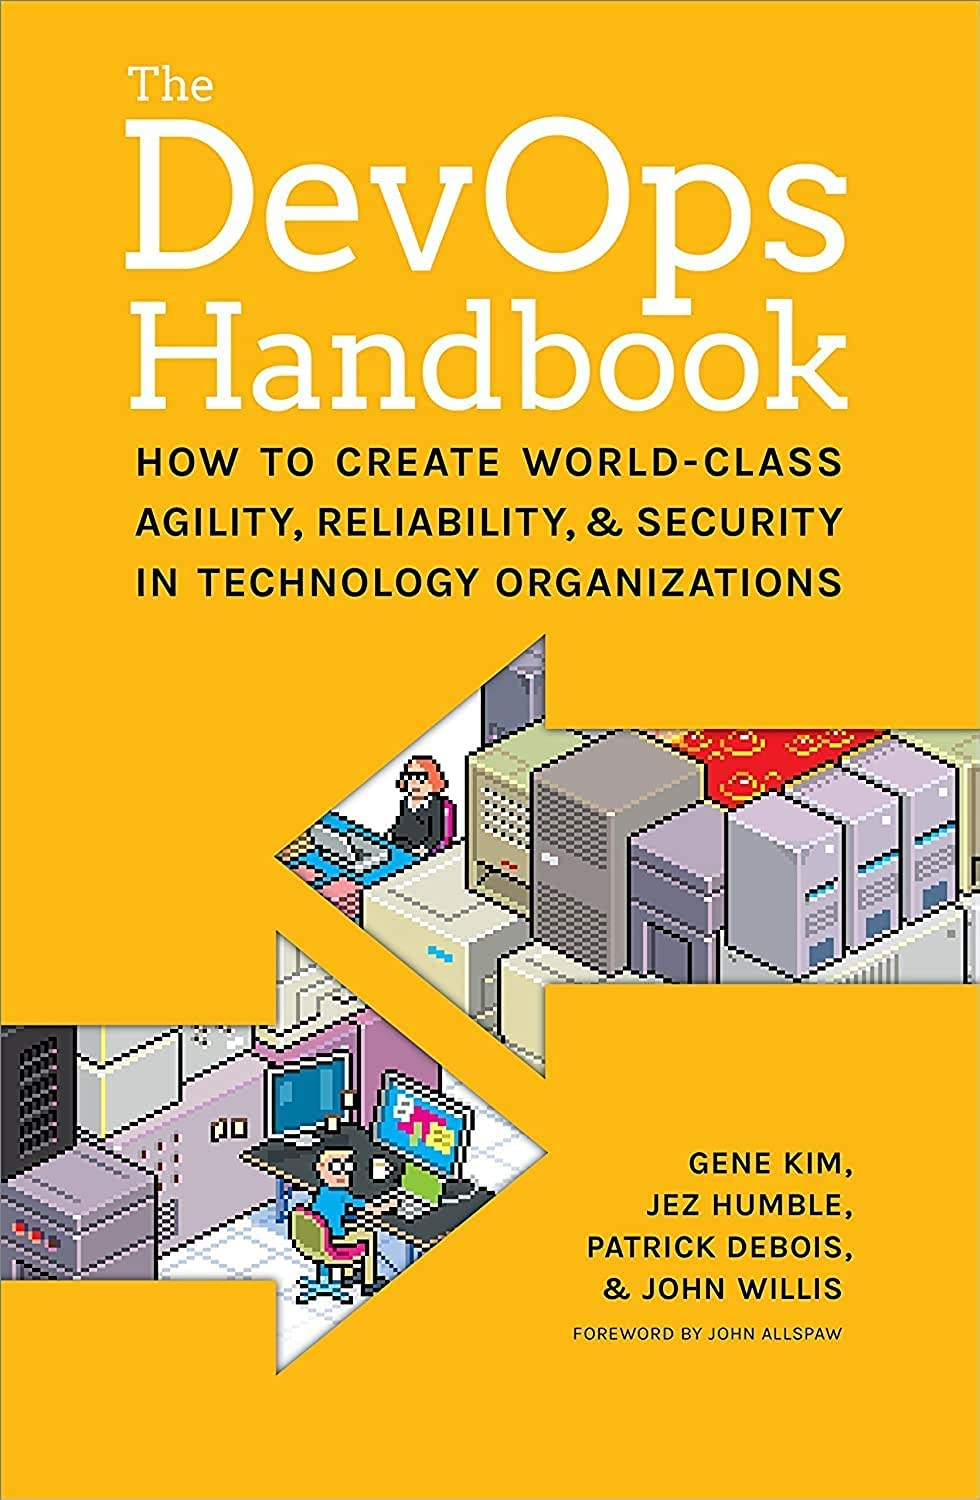
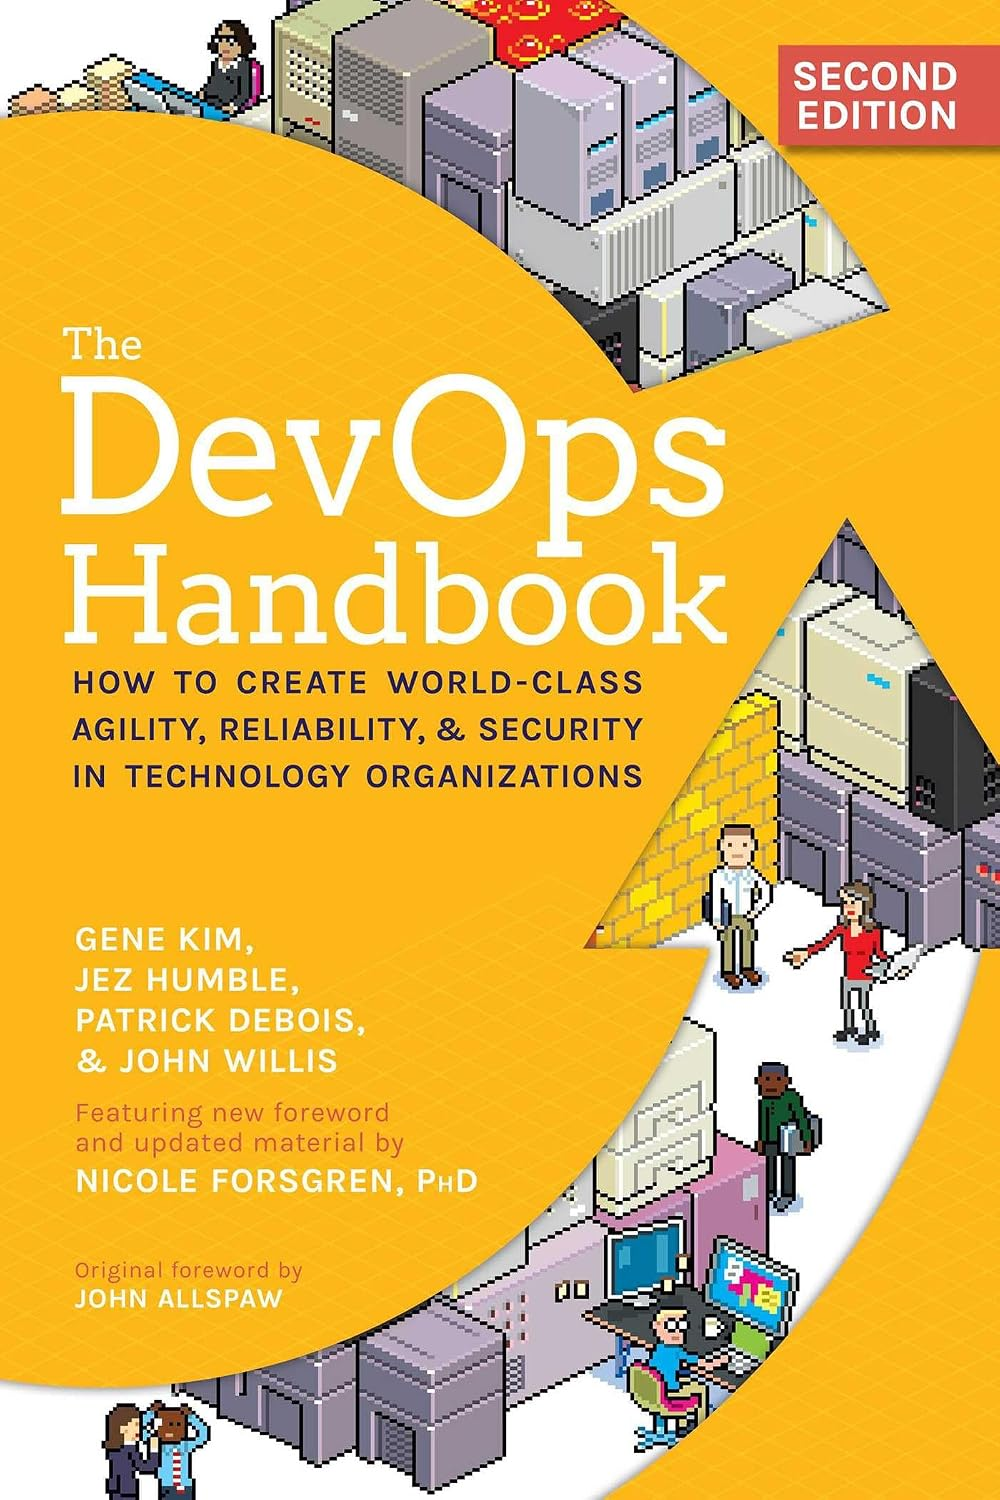
docs: aula 1

diff --git a/README.md b/README.md
@@ -78,19 +78,19 @@ Este curso é destinado a:
 ## 📚 Livros utilizados como referência
 
 <p align="center">
-  <a href="https://a.co/d/0dBZSndQ" target="_blank">
+  <a href="https://a.co/d/0b4Xefu7" target="_blank">
     <img src="assets/books/kim.jpg" width="200"/>
   </a>
   <a href="https://a.co/d/0aB2RmPD" target="_blank">
-    <img src="assets/books/forsgren.jpg" width="204"/>
+    <img src="assets/books/forsgren.jpg" width="200"/>
   </a>
   <a href="https://a.co/d/0d8kGwDi" target="_blank">
-    <img src="assets/books/burns.jpg" width="233"/>
+    <img src="assets/books/burns.jpg" width="229"/>
   </a>
 </p>
 
 - **Kim, G.; Humble, J.; Debois, P.; Willis, J.**
-  *The DevOps Handbook: How to Create World-Class Agility, Reliability, and Security in Technology Organizations*. 1st ed. IT Revolution Press, 2016.
+  *The DevOps Handbook: How to Create World-Class Agility, Reliability, and Security in Technology Organizations*. 2 ed. IT Revolution Press, 2021.
 
 - **Forsgren, N.; Humble, J.; Kim, G.**  
   *Accelerate: The Science of Lean Software and DevOps: Building and Scaling High Performing Technology Organizations*. 1st ed. IT Revolution Press, 2018.
@@ -170,12 +170,19 @@ Durante o curso, serão utilizadas as seguintes tecnologias e plataformas:
 - Engenharia DevOps moderna
 
 *Material de apoio*
-- 🖼 [Slide]()
-- 📄 [Atividade]()
-- 🔗 [Material complementar]()
+- 🖼 [Slide](https://canva.link/y97anu729365xka)
 
 *Referências*
-- *
+- *Kim, Prefácio; Parte I — Introdução*
+- *Kim, Cap. 1 — Agile, Continuous Delivery, and the Three Ways*
+- *Kim, Cap. 4 — The Third Way: The Principles of Continual Learning and Experimentation*
+- *Kim, Cap. 8 — How to Get Great Outcomes by Integrating Operations into the Daily Work of Development*
+- *Forsgren, Cap. 1–2*
+- *Forsgren, Cap. 3 (p. 29–40) — Measuring and Changing Culture*
+- *Forsgren, Cap. 4 (p. 41–57) — Technical Practices*
+- *Forsgren, Cap. 5 (p. 59–68) — Architecture*
+- *Forsgren, Cap. 7–8*
+- *Forsgren, Apêndice A — Capabilities to Drive Improvement*
 
 ---
 
@@ -473,7 +480,6 @@ Durante o curso, serão utilizadas as seguintes tecnologias e plataformas:
 #### 7.2 Computação em Nuvem
 
 - Cloud Agnostic
-- Azure
 - Recursos Gerenciados
 - Trade-offs
 
